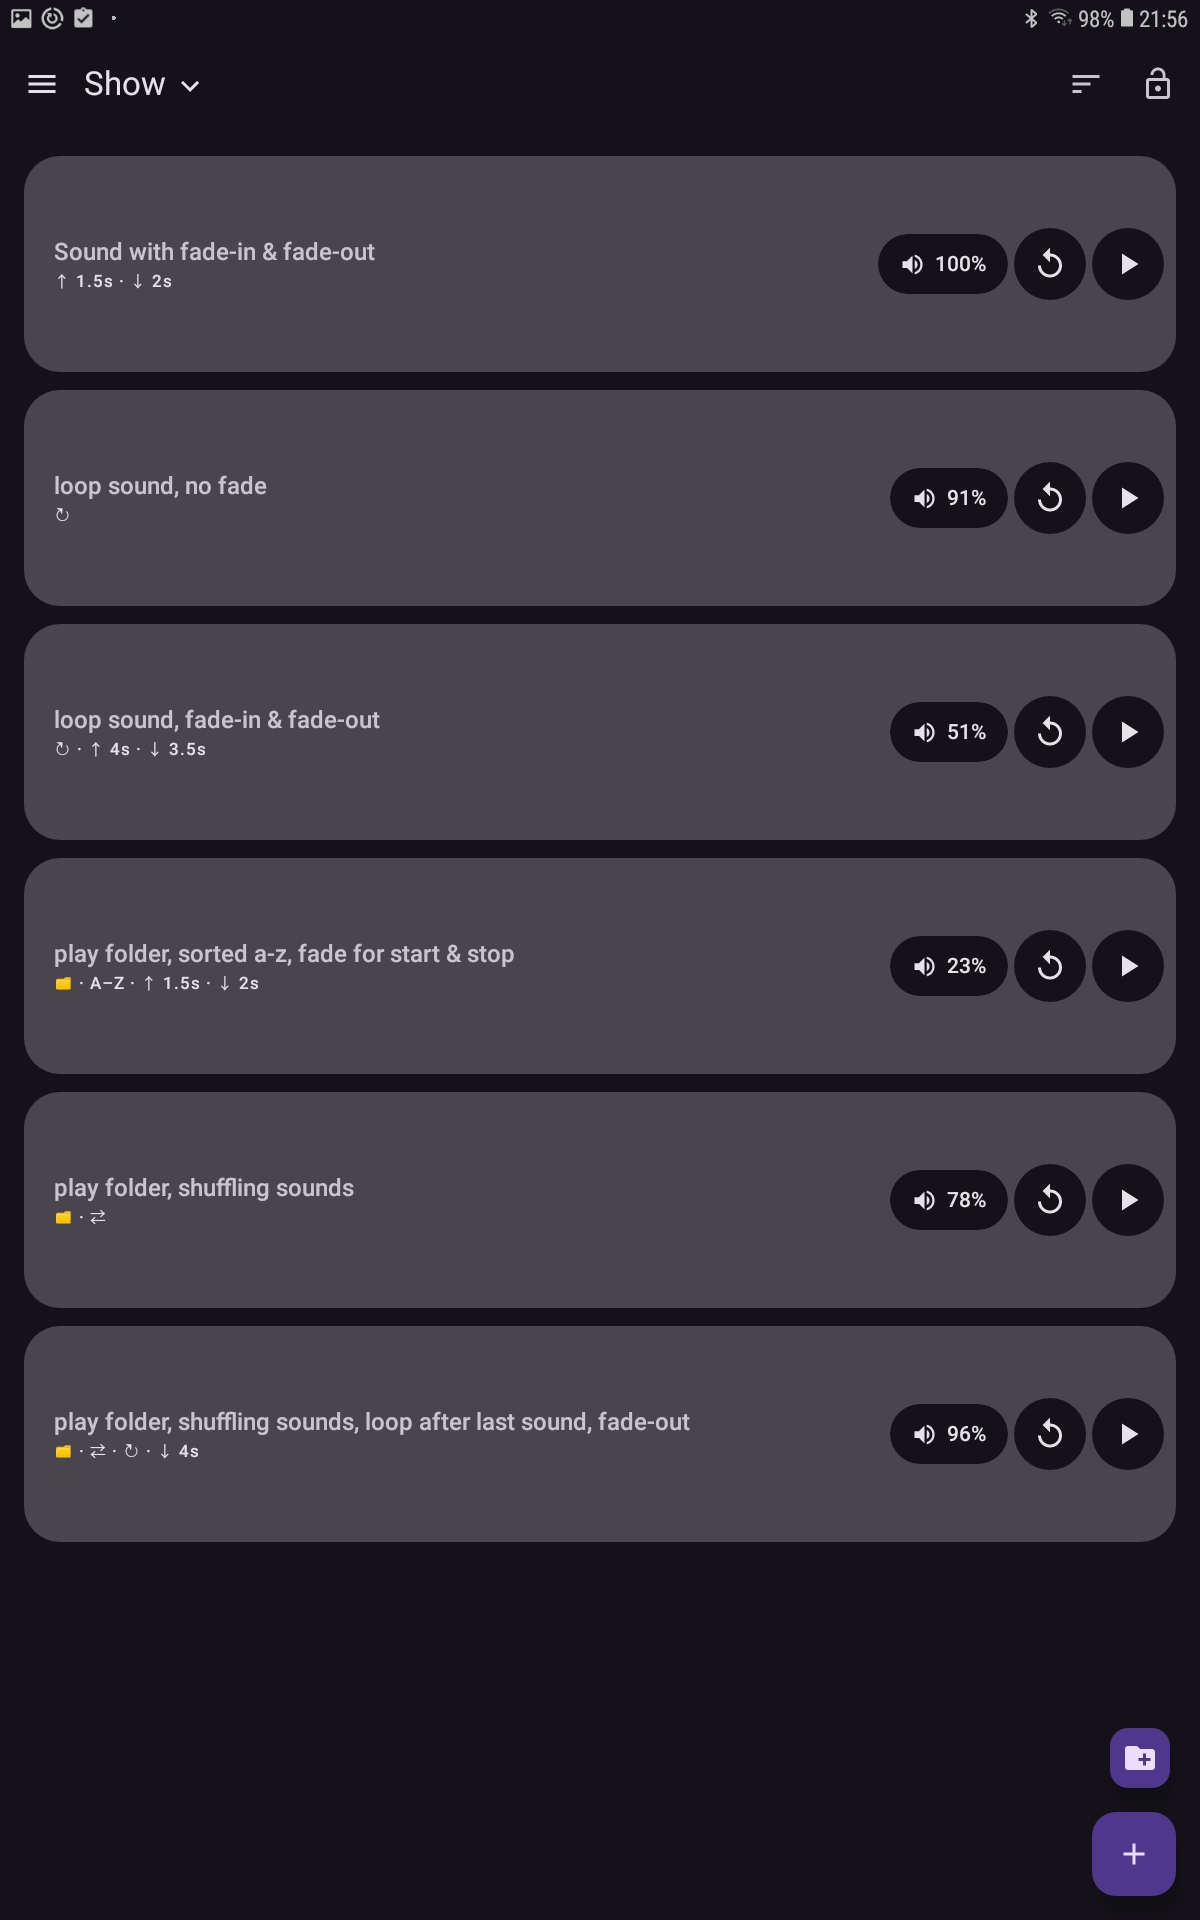
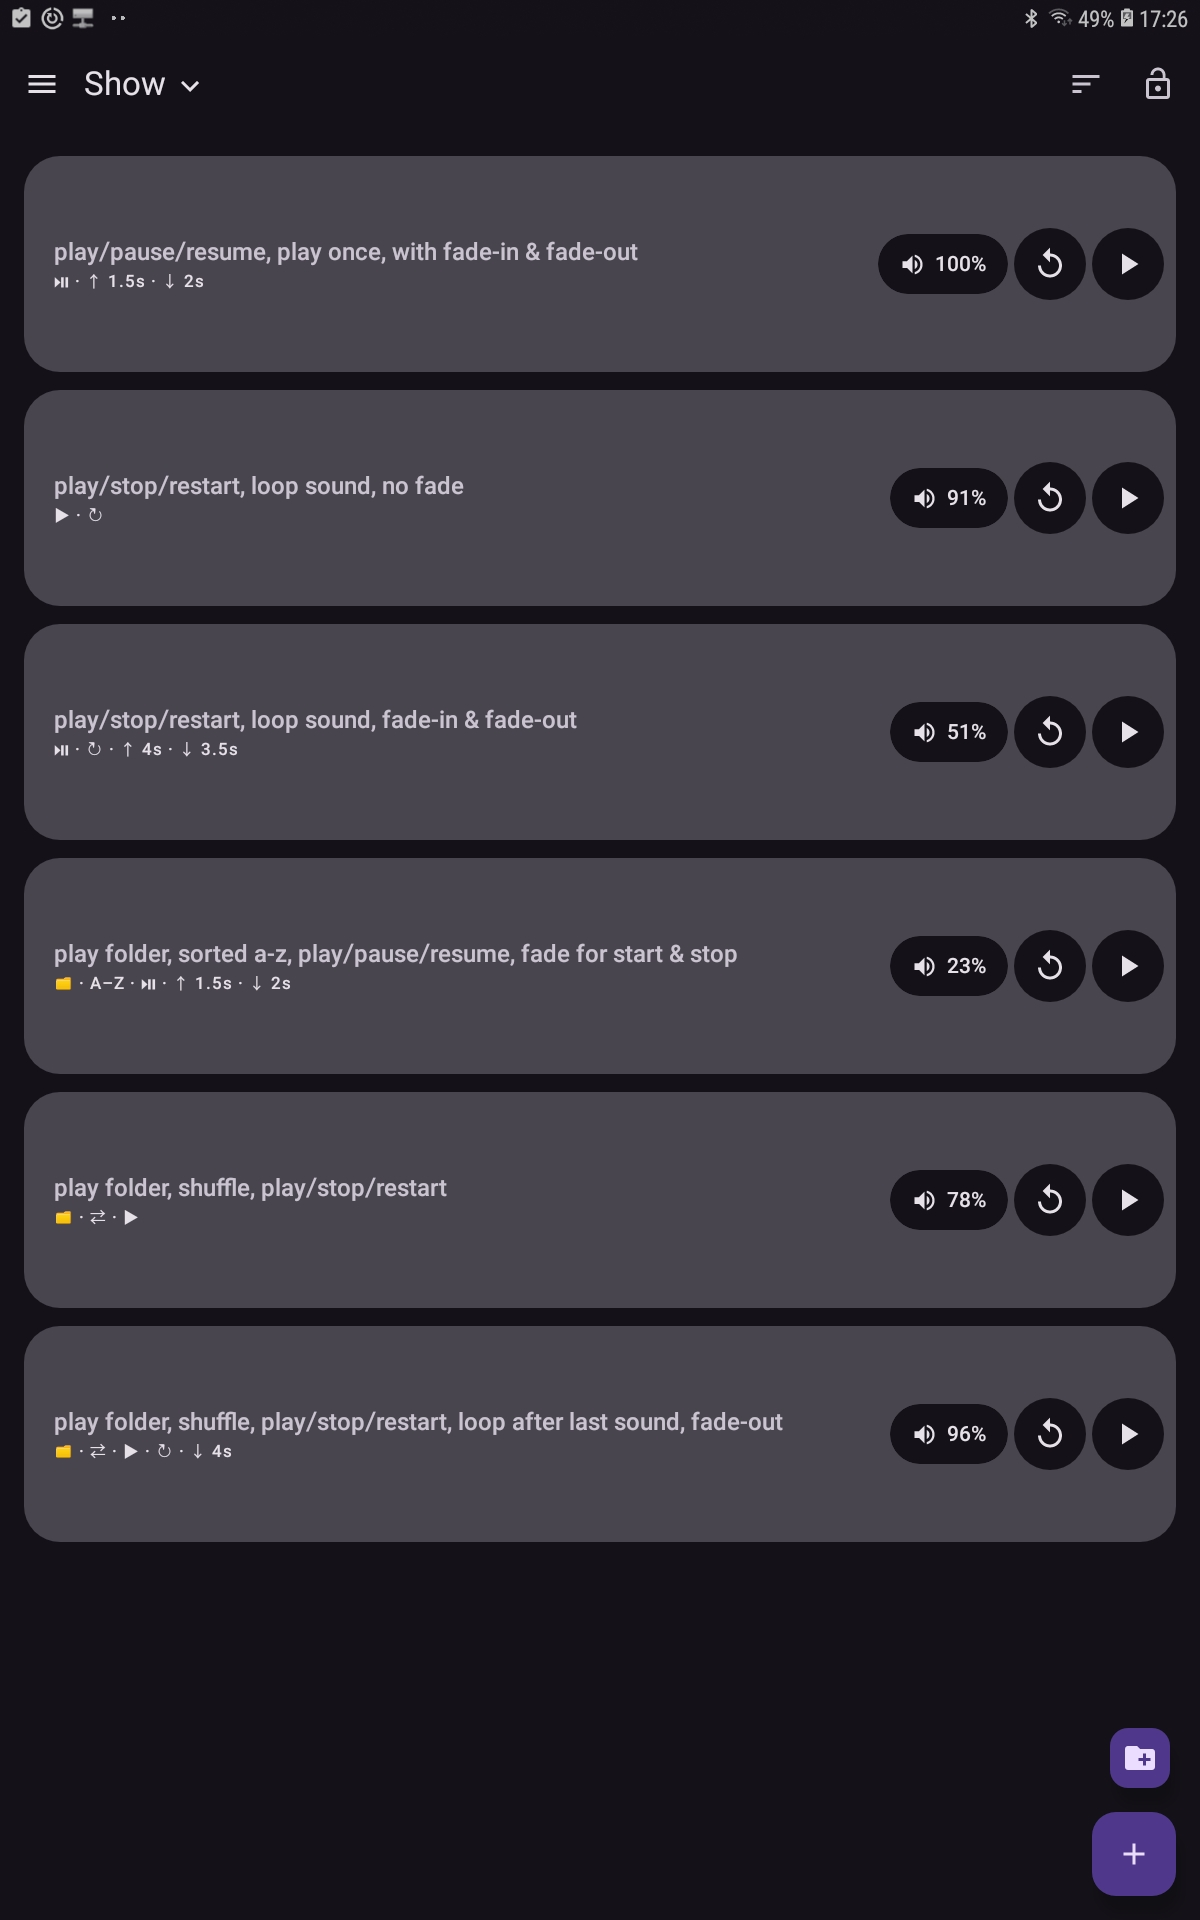
docs: update screenshots and feature descriptions

diff --git a/README.md b/README.md
@@ -8,7 +8,7 @@ and a simplified interface for use during live performances.
 ## Features
 
 - Multiple soundboards with configurable sound button sizes
-- Play, pause, restart and configurable tap behaviour
+- Play, pause, restart and per-sound configurable tap behaviour (Pause/Resume or Stop/Restart), with status indicators
 - Independent sound volume and per-sound fade-in/fade-out
 - Looping and optional simultaneous playback
 - Play individual audio files or entire folders
@@ -17,6 +17,7 @@ and a simplified interface for use during live performances.
 - Performance lock mode with immediate touch response
 - JSON configuration export and portable ZIP backups with audio
 - Light, dark and system appearance
+- Notification permission status and shortcut to Android settings (Android 13+)
 
 ## Screenshots
 
